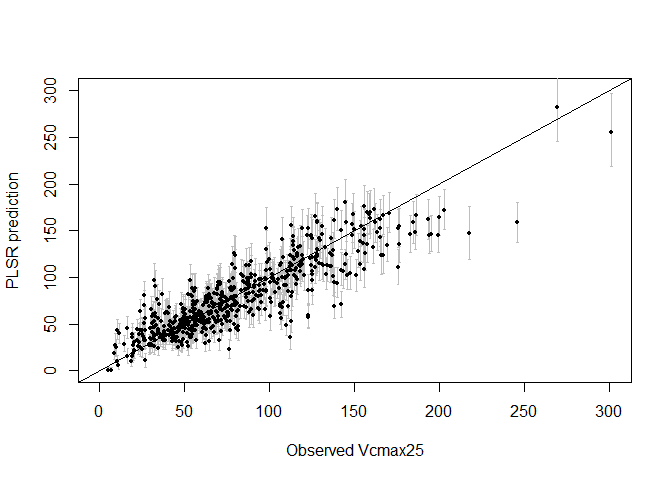
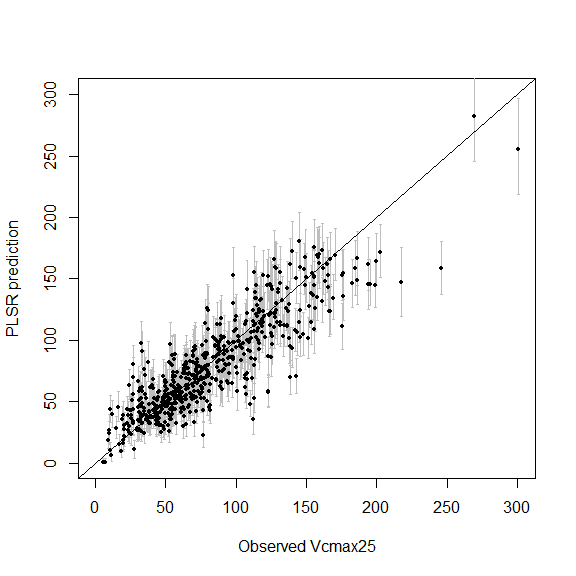
Aesthetics changed

diff --git a/PLSR/Apply_PLSR_new_datasets.md b/PLSR/Apply_PLSR_new_datasets.md
@@ -15,10 +15,12 @@ primarily for illustrative purposes. They were calibrated using all
 available datasets that included full-range spectra (400-2500 nm),
 without strategic selection for balanced biome or species coverage.
 
-This approach and data coverage introduced important limitations: \*
-*Biome Gaps:* Certain biomes are underrepresented or missing from the
-training data. \* *Species Bias:* The dataset contains a much larger
-proportion of crop species compared to wild species.
+This approach and data coverage introduced important limitations:
+
+-   *Biome Gaps:* Certain biomes are underrepresented or missing from
+    the training data.
+-   *Species Bias:* The dataset contains a much larger proportion of
+    crop species compared to wild species.
 
 As discussed in the original paper, these factors may limit the model’s
 accuracy and generalizability when applied to data from underrepresented
@@ -29,7 +31,7 @@ re-calibration of the model using a training dataset that is carefully
 selected for your target biome, species, or functional types. This can
 be done by adapting the scripts located in the folder PLSR for each
 variable (e.g for Vcmax25:
-[PLSR\_models\_Vcmax25](https://github.com/plantphys/gsti/blob/main/PLSR/PLSR_models_Vcmax25.R).
+[PLSR\_models\_Vcmax25](https://github.com/plantphys/gsti/blob/main/PLSR/PLSR_models_Vcmax25.R)).
 
 The provided models serve as a robust starting point and a demonstration
 of the method, but can likely be improved with more targeted
@@ -42,7 +44,7 @@ calibration.
 
 ## 2. Load the PLSR models
 
-For this example, we will load the Vcmax25 PLSR model. The package
+For this example, we will load the `Vcmax25` PLSR model. The package
 “here” helps to correcly set the working directory to the project
 repository.
 
@@ -57,22 +59,23 @@ repository.
 
 Loading the .Rdata file adds three objects to your environment:
 
-plsr\_model: The actual PLSR model for Vcmax25.
+-   plsr\_model: The actual PLSR model for Vcmax25.
 
-training: The subset of the GSTI database used to calibrate the model.
+-   training: The subset of the GSTI database used to calibrate the
+    model.
 
-validation: An independent subset (20% of data) used to validate the
-model.
+-   validation: An independent subset (20% of data) used to validate the
+    model.
 
 The plsr\_model object is a list with several components. Key components
 for prediction are:
 
-ncomp: The number of latent components used in the model.
+-   ncomp: The number of latent components used in the model.
 
-coefs: A matrix containing 1000 sets of coefficients from the 1000
-bootstrapped PLSR models. Row 1 corresponds to the intercepts for the
-1000 models and rows 2-2102 correspond to the coefficients associated
-with the reflectance wavelengths from 400 to 2500 nm.
+-   coefs: A matrix containing 1000 sets of coefficients from the 1000
+    bootstrapped PLSR models. Row 1 corresponds to the intercepts for
+    the 1000 models and rows 2-2102 correspond to the coefficients
+    associated with the reflectance wavelengths from 400 to 2500 nm.
 
 Let’s visualize the distribution of coefficients across the 1000 models.
 
